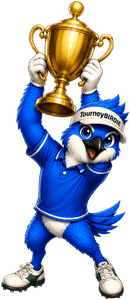
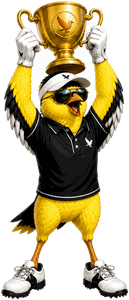
Leaderboard goldfinch + Clubhouse tab-dependent header mascot

diff --git a/src/features/trip/screens/ClubhouseScreen.tsx b/src/features/trip/screens/ClubhouseScreen.tsx
@@ -25,11 +25,23 @@ export function ClubhouseScreen({
 
   return (
     <div className="space-y-4">
-      <ScreenHeader
-        img="/brand/clubhouse.png"
-        title="Clubhouse"
-        subtitle="Photos from the round and trash talk from the crew."
-      />
+      <div className="flex items-start justify-between gap-3">
+        <ScreenHeader
+          img="/brand/clubhouse.png"
+          title="Clubhouse"
+          subtitle="Photos from the round and trash talk from the crew."
+        />
+        <img
+          src={
+            tab === "photos"
+              ? "/brand/clubhouse-photos-birdy.png"
+              : "/brand/clubhouse-chat-birdy.png"
+          }
+          alt=""
+          aria-hidden="true"
+          className="pointer-events-none -mt-1 h-24 w-auto shrink-0 drop-shadow-[0_10px_14px_rgba(11,36,24,0.35)]"
+        />
+      </div>
 
       <div className="grid grid-cols-2 gap-2 rounded-2xl border border-line bg-white p-1">
         {tabs.map((t) => {